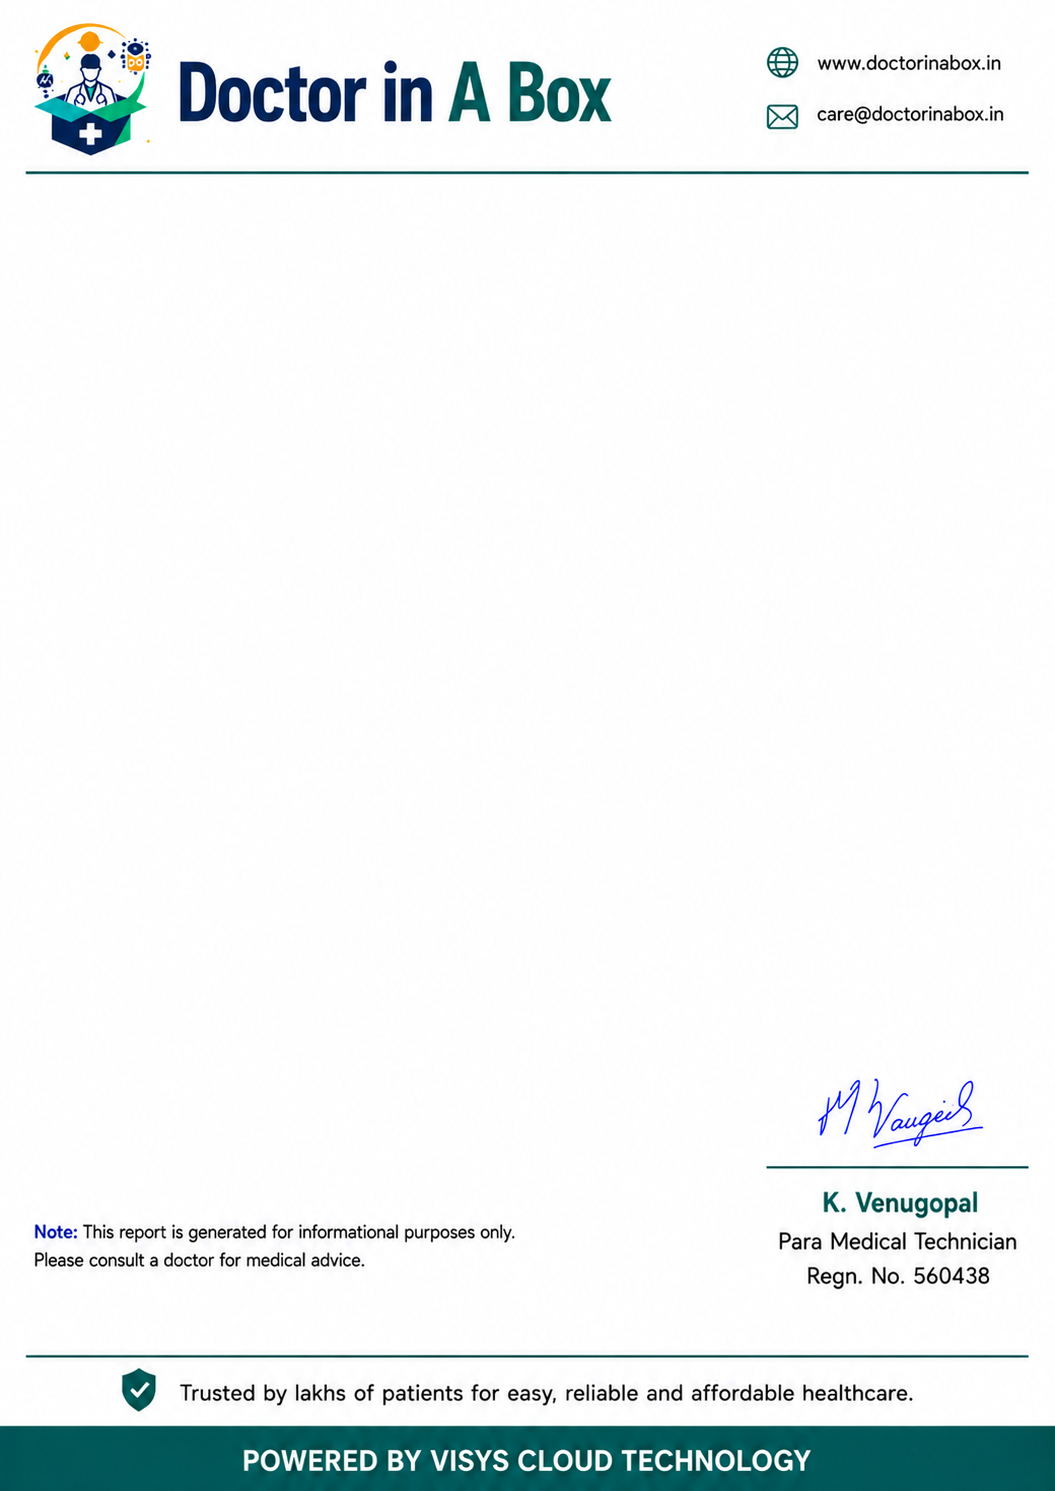
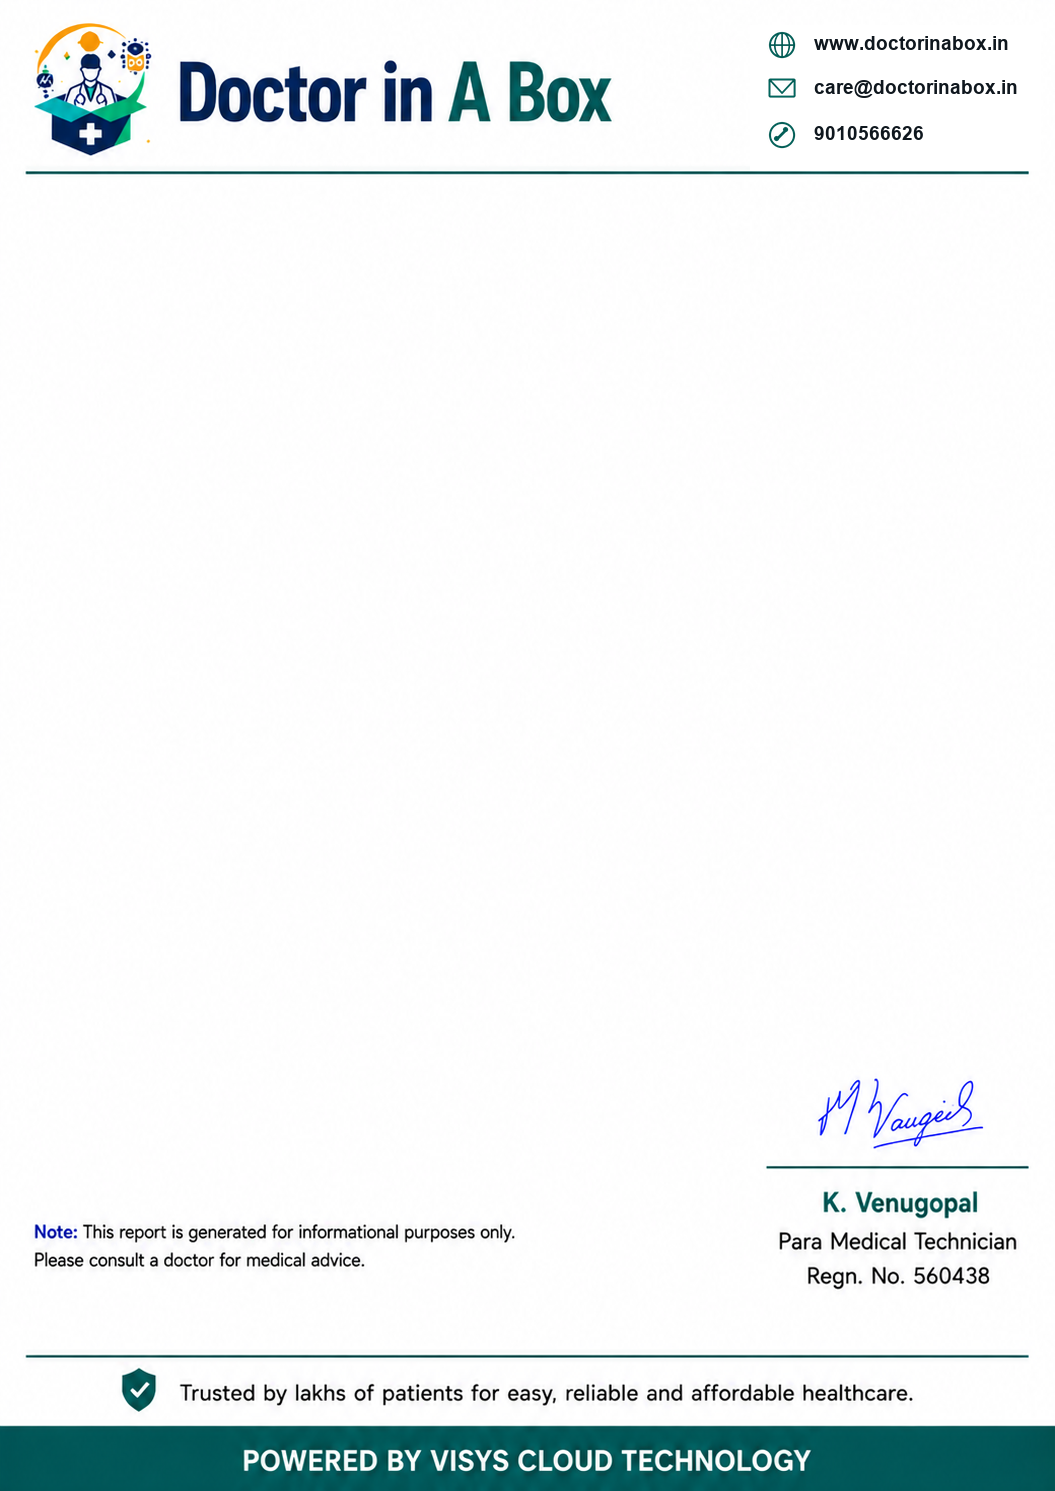
Update screening test project

Changed region(s): [[0.728, 0.0, 0.9706, 0.0926]]

diff --git a/index.html b/index.html
@@ -604,8 +604,7 @@
         </div>
         <div id="reportCards"></div>
         <div style="margin-top:20px; border-top:1px dashed #d0e0ed; padding-top:16px; text-align:center; font-size:0.75rem; color:#3a6885;">
-          Screening performed by Doctor in a Box · Informational purposes only<br>
-          For any queries Call us: <strong>9010566626</strong>
+          Screening performed by Doctor in a Box · Informational purposes only
         </div>
       </div>
       <div class="flex" style="gap:8px; flex-wrap:wrap; margin:12px 0;">
@@ -2129,7 +2128,6 @@
         const totalY = tableY + headerH + tableBodyH + 32;
         at(tableX + 18, totalY, 220, 'Total Amount', font(17, 800), textColor);
         at(tableX + 844, totalY, 66, money(reportData.amount ?? computedTotal).replace('Rs. ', ''), font(17, 800), textColor);
-        at(tableX + 18, totalY + 40, 780, 'For any queries Call us: 9010566626', font(16, 800), teal);
 
         return canvas.toDataURL('image/png');
       });
@@ -2335,12 +2333,9 @@
           ctx.fillStyle = '#0b2b4a';
           ctx.font = '700 18px Arial';
           ctx.fillText('ℹ This report is generated for informational purposes only. Please consult a doctor for medical advice.', pagePadding + 18, canvas.height - 120);
-          ctx.fillStyle = '#00756f';
-          ctx.font = '700 16px Arial';
-          ctx.fillText('📞 For any queries Call us: 9010566626', pagePadding + 18, canvas.height - 90);
           ctx.fillStyle = '#4a6885';
           ctx.font = '600 16px Arial';
-          ctx.fillText('🏢 Office Details: 4th Floor, Metro Station Madhapur, Q-Hub, near Madhapur, Hyderabad, Telangana 500033', pagePadding + 18, canvas.height - 60);
+          ctx.fillText('🏢 Office Details: 4th Floor, Metro Station Madhapur, Q-Hub, near Madhapur, Hyderabad, Telangana 500033', pagePadding + 18, canvas.height - 80);
 
           const dataUrl = canvas.toDataURL('image/png');
           resolve(dataUrl);
@@ -2491,7 +2486,6 @@
           </div>
 
           <div class="rr-note"><b>ℹ Note:</b> This report is generated for informational purposes only. Please consult a doctor for medical advice.</div>
-          <div class="rr-office"><b>📞 For any queries Call us:</b> 9010566626</div>
           <div class="rr-office"><b>🏢 Office Details:</b> 4th Floor, Metro Station Madhapur, Q-Hub, near Madhapur, Hyderabad, Telangana 500033</div>
         </div>
       `;

diff --git a/app.py b/app.py
@@ -417,7 +417,8 @@ def generate_image():
         draw_info_line(72, card_y + 68, 'Name', person.get('name') or 'Unknown', 90, 300)
         draw_info_line(72, card_y + 102, 'Gender/Age', gender_age, 90, 300)
         draw_info_line(72, card_y + 136, 'Mobile', person.get('contact') or '—', 90, 300)
-        draw_info_line(72, card_y + 170, 'Email', person.get('email') or '—', 90, 300)
+        email_text = person.get('email') or '—'
+        draw_info_line(72, card_y + 170, 'Email', email_text, 90, 300)
 
         draw_info_line(552, card_y + 68, 'Patient ID', report_id, 112, 270)
         draw_info_line(552, card_y + 102, 'Date', person.get('date') or '—', 112, 270)
@@ -476,7 +477,6 @@ def generate_image():
         total_y = table_y + header_h + (len(rows) * row_h) + 32
         fit_text(table_x + 18, total_y, 'Total Amount', font(17, True), 220)
         fit_text(table_x + 844, total_y, money(rendered_total).replace('Rs. ', ''), font(17, True), 66)
-        fit_text(table_x + 18, total_y + 40, 'For any queries Call us: 9010566626', font(16, True), 780, color=teal)
 
         img_byte_arr = BytesIO()
         img.save(img_byte_arr, format='PNG', quality=95)
